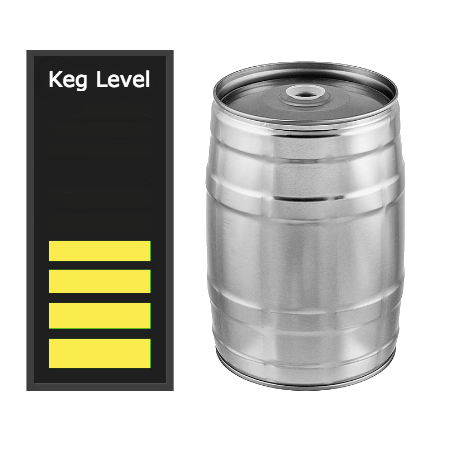
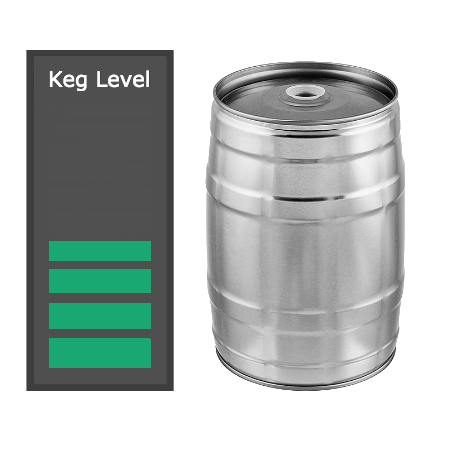
fix coloring of keg measurement graphic.

Changed region(s): [[0.0622, 0.1244, 0.3733, 0.8711]]

diff --git a/app/keg-list.component.ts b/app/keg-list.component.ts
@@ -6,14 +6,15 @@ import { Keg } from './keg.model';
   template: `
 
     <div class="filters">
-      <button class="btn btn-default" (click)="filterByPrice('cheap')">Cheap Beer</button>
-      <button class="btn btn-default" (click)="filterByPrice('nice')">Nice Beer</button>
-      <button class="btn btn-default" (click)="filterByPrice('all')">All Beer</button>
+      <button class="btn btn-default grow" (click)="filterByPrice('cheap')">Cheap Beer</button>
+      <button class="btn btn-default grow" (click)="filterByPrice('nice')">Nice Beer</button>
+      <button class="btn btn-default grow" (click)="filterByPrice('all')">All Beer</button>
     </div>
     <div class="card" *ngFor="let currentKeg of childKegList | price:filterByPriceOption">
       <div class="card-block">
         <button class="edit-button"(click)="editButtonHasBeenClicked(currentKeg)"><i class="fa fa-pencil fa-lg" aria-hidden="true"></i></button>
         <button class="details-button" (click)="detailsButtonHasBeenClicked(currentKeg)"><i class="fa fa-signal fa-lg" aria-hidden="true"></i></button>
+        <button class="delete-button" (click)="deleteButtonHasBeenClicked(currentKeg)"><i class="fa fa-times" aria-hidden="true"></i></button>
         <h4 class="card-title">{{currentKeg.name}}</h4>
         <h6 class="card-subtitle mb-2 text-muted">{{currentKeg.brand}}</h6>
         <h5 class="card-text"><span class="badge badge-success">Price: \${{currentKeg.price}}</span> <span class="badge badge-default">ABV: {{currentKeg.abv}}%</span></h5>
@@ -26,6 +27,7 @@ export class KegListComponent {
   @Input() childKegList: Keg[];
   @Output() clickSender = new EventEmitter();
   @Output() detailsClickSender = new EventEmitter();
+  @Output() deleteClickSender = new EventEmitter();
 
   filterByPriceOption: string = 'all';
 
@@ -39,6 +41,10 @@ export class KegListComponent {
 
   detailsButtonHasBeenClicked(kegToDetail: Keg) {
     this.detailsClickSender.emit(kegToDetail);
+  }
+
+  deleteButtonHasBeenClicked(kegToDelete: Keg) {
+    this.deleteClickSender.emit(kegToDelete);
   }
 
 }

diff --git a/app/app.component.ts b/app/app.component.ts
@@ -11,7 +11,7 @@ import { Keg } from './keg.model';
     <div class="row">
     <div class="col-md-6">
 
-    <div class="card pa2 grow f3-ns no-underline bg-dark-green white-90 add-form">
+    <div class="card pa2 grow f3-ns no-underline bg-dark-green white-90">
     <button class="add-button tc"(click)="addNewButton()"><i class="fa fa-plus tc fa-lg "></i></button>
     </div>
 
@@ -19,7 +19,7 @@ import { Keg } from './keg.model';
 
     <edit-keg [childSelectedKeg]="selectedKeg" (doneButtonClickSender)="finishedEditing()"></edit-keg>
 
-    <keg-list [childKegList]="masterKegList" (clickSender)="editKeg($event)" (detailsClickSender)="detailsKeg($event)"></keg-list>
+    <keg-list [childKegList]="masterKegList" (clickSender)="editKeg($event)" (detailsClickSender)="detailsKeg($event)" (deleteClickSender)="deleteKeg($event)"></keg-list>
     </div>
     <div class="col-md-6 details">
     <keg-details [kegDetailsSelectedKeg]="selectedDetailsKeg" (backKegSender)="finishedDetailing()"></keg-details>
@@ -71,6 +71,11 @@ export class AppComponent {
 
   finishedDetailing() {
     this.selectedDetailsKeg = null;
+  }
+
+  deleteKeg(selectedKeg) {
+    let itemToDelete = this.masterKegList.findIndex(function (keg) {return selectedKeg.name === keg.name});
+    this.masterKegList.splice(itemToDelete, 1);
   }
 
 }

diff --git a/app/edit-keg.component.ts b/app/edit-keg.component.ts
@@ -5,10 +5,12 @@ import { Keg } from './keg.model';
   selector: 'edit-keg',
   template: `
     <div *ngIf="childSelectedKeg">
-      <h3>Edit {{childSelectedKeg.name}}</h3>
+    <div class="card">
+      <div class="card-form pa3 edit-card-input">
+      <h1>Edit {{childSelectedKeg.name}}</h1>
       <label>Enter Keg Name:</label>
       <input [(ngModel)]="childSelectedKeg.name">
-      
+
       <label>Enter Keg Brand:</label>
       <input [(ngModel)]="childSelectedKeg.brand">
 
@@ -19,10 +21,12 @@ import { Keg } from './keg.model';
       <input [(ngModel)]="childSelectedKeg.abv">
 
       <p>Number of pints left: {{childSelectedKeg.numberOfPints}}</p>
-      <button (click)="doneButtonClicked()">Done</button>
+      <button class="btn btn-default"  (click)="doneButtonClicked()">Done</button>
       <div *ngIf="childSelectedKeg.numberOfPints < 1">
         <button (click)="replaceKegClicked()">Replace Kicked Keg</button>
       </div>
+      </div>
+    </div>
     </div>
   `
 })

diff --git a/resources/styles/styles.css b/resources/styles/styles.css
@@ -54,10 +54,21 @@ h1 {
 
 }
 
+.delete-button {
+  position:absolute;
+  right: 10px;
+  top: 10px;
+  opacity: 0.7;
+  border: none;
+  background:none !important;
+  outline: inherit !important;
+
+}
+
 .details-button {
   position: absolute;
-  right: 10px;
-  top:10px;
+  left: 10px;
+  bottom:10px;
   opacity: 0.7;
   border: none;
   background:none !important;
@@ -104,4 +115,30 @@ h1 {
   font-size: 14px;
   width: 50%;
        clear: both;
+}
+
+.edit-form h1{
+  color: white!important;
+}
+.edit-form label{
+  font-size: 12pt;
+}
+.edit-form input{
+  font-size: 14px;
+  width: 50%;
+  clear: both;
+}
+
+.edit-card-input input {
+  width: 100%;
+  clear: both;
+  text-align: center;
+  font-size: 14px;
+}
+.edit-card-input label {
+  font-size: 12pt;
+  margin-top: 1%;
+  font-weight: bold;
+
+
 }
